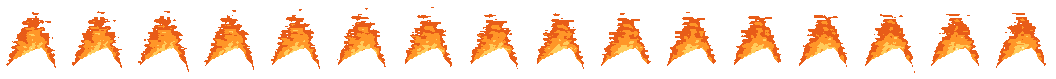
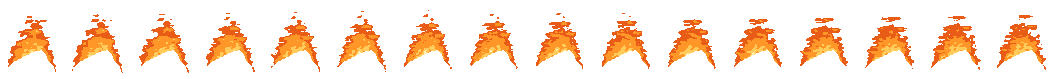
fix(cabin): seat the fire on the logs
The flames stopped a few pixels above the logs, worst on the phone
layout where the traced outline ran high, and the hottest band sat in
mid-flame because pixels along the base averaged in the unlit cells
under them.

diff --git a/scripts/build-cabin.py b/scripts/build-cabin.py
@@ -25,7 +25,7 @@ RIB_DEPTH = 18
 STAR_GAP = 4
 LIGHT_GAP = 3
 MIN_LAKE_SPAN = 6
-FLAME_TUCK = 2
+FLAME_TUCK = 4
 FLAME_INKS = [(44, (255, 240, 180)), (32, (255, 204, 92)), (19, (255, 150, 40)), (8, (232, 92, 24))]
 FIRE_HEAT = 64
 FIRE_STEADY = 0.45
@@ -46,7 +46,7 @@ ROOMS = {
     },
     "tall": {
         "source": "tall.png",
-        "fire": {"opening": (269, 381, 332, 474), "grateTop": 458, "logRim": [(273, 446), (278, 441), (293, 434), (307, 429), (312, 431), (315, 436), (320, 440), (323, 446)], "seed": 52},
+        "fire": {"opening": (269, 381, 332, 474), "grateTop": 458, "logRim": [(270, 452), (278, 444), (293, 435), (307, 429), (312, 431), (316, 436), (322, 441), (328, 449)], "seed": 52},
         "dog": (180, 512, 312, 592), "snore": (272, 526), "snoreDrift": -10,
         "window": (18, 164, 142, 298), "starLight": 150, "city": (55, 256, 125, 272), "lake": (40, 268, 125, 298),
         "coffee": (200, 423), "candles": [(266, 315), (280, 321)],
@@ -98,7 +98,7 @@ def mask_image(points, box):
 
 
 def flame_floor(fire):
-    """The lowest row a flame may reach in each column: just under the logs' top edge, or the grate beside them. The
+    """The lowest row a flame may reach in each column: just over the logs' top edge, or the grate beside them. The
     edge is measured off the painting, because the fire-lit brick behind the logs is as bright as the logs are."""
     x0, _, x1, _ = fire["opening"]
     rim = fire["logRim"]
@@ -148,7 +148,7 @@ def fire_strip(fire):
             for x in range(width):
                 if y >= floor[x + x0] - y0:
                     continue
-                near = [heat[ny][nx] for ny in (y - 1, y, y + 1) for nx in (x - 1, x, x + 1) if 0 <= ny < height and 0 <= nx < width]
+                near = [heat[ny][nx] for ny in (y - 1, y, y + 1) for nx in (x - 1, x, x + 1) if 0 <= ny < height and 0 <= nx < width and ny < floor[nx + x0] - y0]
                 warmth = (sum(near) + heat[y][x]) / (len(near) + 1)
                 color = next((ink for least, ink in FLAME_INKS if warmth >= least), None)
                 if color:
